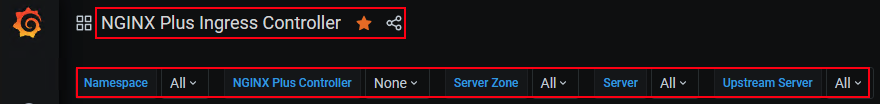
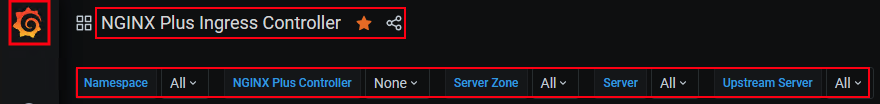
Minor Readme Updates

Changed region(s): [[0.0, 0.0, 0.0614, 0.4615]]

diff --git a/modules/module5/readme.md b/modules/module5/readme.md
@@ -42,7 +42,7 @@ Some items to note:
 Now lets apply the manifest and create the APPolicy resource:
 
 ```bash
-    kubectl apply -f module5/ap-policy-api.yaml
+kubectl apply -f module5/ap-policy-api.yaml
 ```
 
 Inspect the `module5/ap-logconf.yaml` file. This is where we define our App Protect logging. The spec consists of two parts, filter: which requests are to be logged and content: how the message is formatted. 
@@ -50,7 +50,7 @@ Inspect the `module5/ap-logconf.yaml` file. This is where we define our App Prot
 Now lets apply the manifest and create the APLogConf resource:
 
 ```bash
-    kubectl apply -f module5/ap-logconf.yaml
+kubectl apply -f module5/ap-logconf.yaml
 ```
 
 Inspect the `module5/syslog.yaml` file. We stream our NAP logs into this syslog deployment.
@@ -58,7 +58,7 @@ Inspect the `module5/syslog.yaml` file. We stream our NAP logs into this syslog 
 Now lets apply the manifest.
 
 ```bash
-    kubectl apply -f module5/syslog.yaml
+kubectl apply -f module5/syslog.yaml
 ```
 
 Inspect the `module5/waf-policy.yaml` file. This creates the new Policy object that specifies the above manifest files.
@@ -66,7 +66,7 @@ Inspect the `module5/waf-policy.yaml` file. This creates the new Policy object t
 Now lets apply the manifest.
 
 ```bash
-    kubectl apply -f module5/waf-policy.yaml
+kubectl apply -f module5/waf-policy.yaml
 ```
 
 ## 3. Modify the VirtualServer object to enable NGINX APP Protect policy and test
@@ -83,7 +83,7 @@ Inspect the `module5/api-runtimes-vs-with-waf.yaml` file. This file modifies the
 Run the following command to update the existing `apis` VirtualServer object with the App Protect policy and associated manifests.
 
 ```bash
-    kubectl apply -f module5/api-runtimes-vs-with-waf.yaml
+kubectl apply -f module5/api-runtimes-vs-with-waf.yaml
 ```
 
 Now lets test the API and see what responses you get when you access the Colors API with the App Protect Policy.

diff --git a/modules/module8/readme.md b/modules/module8/readme.md
@@ -102,9 +102,13 @@ Access the Grafana dashboard by clicking the Grafana bookmark in the bookmark ba
 
 ![Grafana Tab](media/grafana-tab.png)
 
+If prompted, login with the "admin" user account, password is saved in browser.  
+
 Once the Grafana page is opened, you should see the "NGINX Plus Ingress Controller" dashboard:
 
 ![NIC Dashboard](media/dashboard-intro.png)
+
+**Note:  If you don't see the "NGINX Plus Ingress Controller" dashboard, click the Grafana icon in the upper left corner of the page and scroll down to the list of dashboards, then select it.
 
 Notice that immediately under the dashboard title is a set of filters letting you choose a namespace, a specific NIC if there is more than one installed, a specific server zone, a specific server (pod), or a specific NGINX virtual server.  This is helpful for troubleshooting by focusing on a specific problem area.  
 
@@ -117,12 +121,12 @@ The Environment Metrics panel contains good overview data.  Ingress Metrics and 
 There are two primary differences between the NGINX+ and Grafana dashboards:
 
 1. The Grafana dashboard lets you see historical data, similar to what you saw with Prometheus.
-2. The Grafana can act as a single pane of glass for multiple Ingress pods.  
+2. The Grafana dashboard can act as a single pane of glass for multiple Ingress pods.  
 
-Let's try out that second point.  Scale your Ingress deployment to three pods with the following command:
+Let's try out that second point.  Scale your Ingress deployment to six pods with the following command:
 
 ```bash
-kubectl scale deploy -n nginx-ingress nginx-ingress --replicas=3
+kubectl scale deploy -n nginx-ingress nginx-ingress --replicas=6
 ```
 
 Now navigate to the dashboard home screen by clicking on the dashboard icon on the left of the page:

diff --git a/modules/module3/readme.md b/modules/module3/readme.md
@@ -53,7 +53,7 @@ Inspect the `module3/api-runtimes-vs-with-ratelimit.yaml` file. This file modifi
 Run the following command to update the existing `apis` VirtualServer object with the new changes
 
 ```bash
-    kubectl apply -f module3/api-runtimes-vs-with-ratelimit.yaml
+kubectl apply -f module3/api-runtimes-vs-with-ratelimit.yaml
 ```
 
 ![API VS apply](media/module3_api_vs_apply.png)

diff --git a/modules/module4/readme.md b/modules/module4/readme.md
@@ -61,7 +61,7 @@ Inspect the `module4/api-runtimes-vs-with-jwt.yaml` file. This file modifies the
 Run the following command to update the existing `apis` VirtualServer object with the new changes
 
 ```bash
-    kubectl apply -f module4/api-runtimes-vs-with-jwt.yaml
+kubectl apply -f module4/api-runtimes-vs-with-jwt.yaml
 ```
 
 ![API VS apply](media/module4_api_vs_apply.png)
